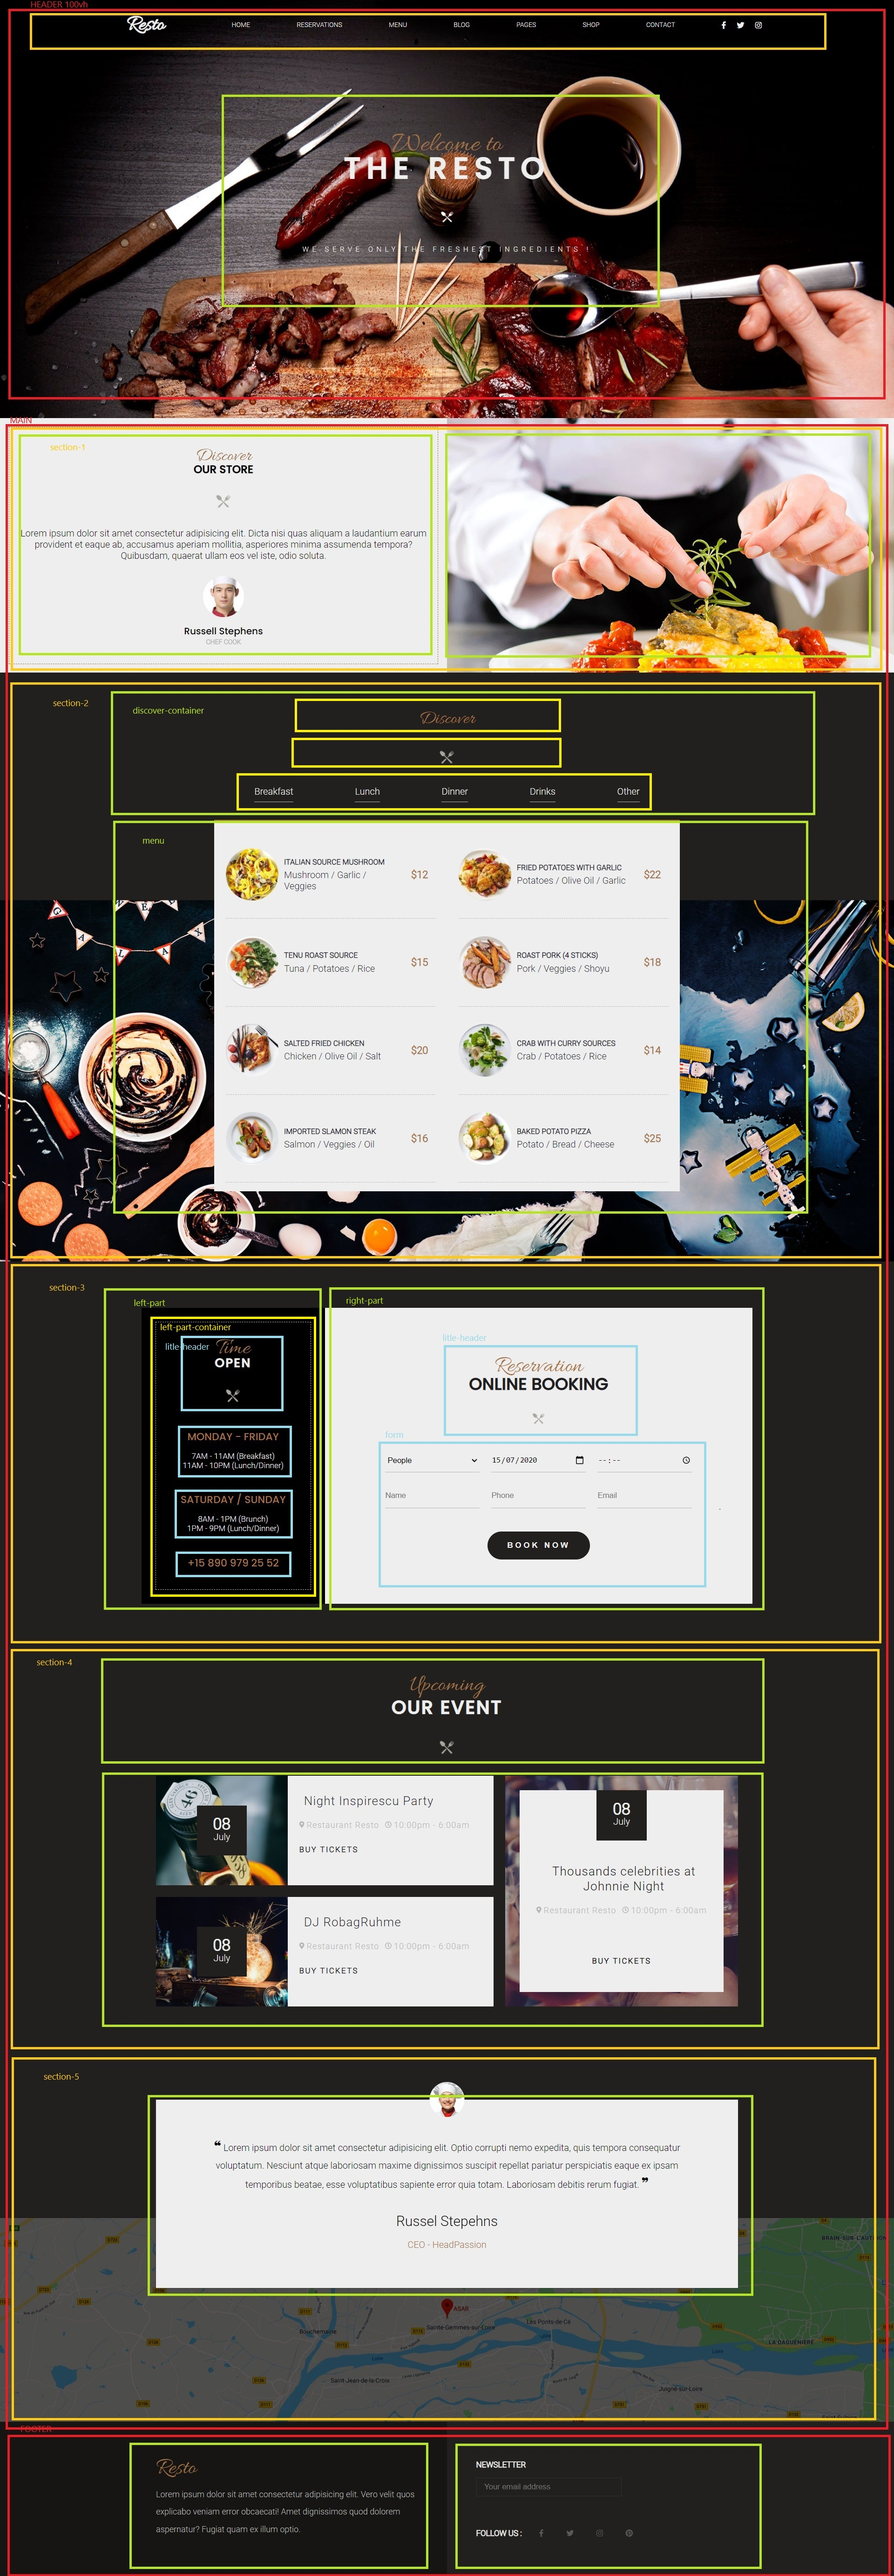
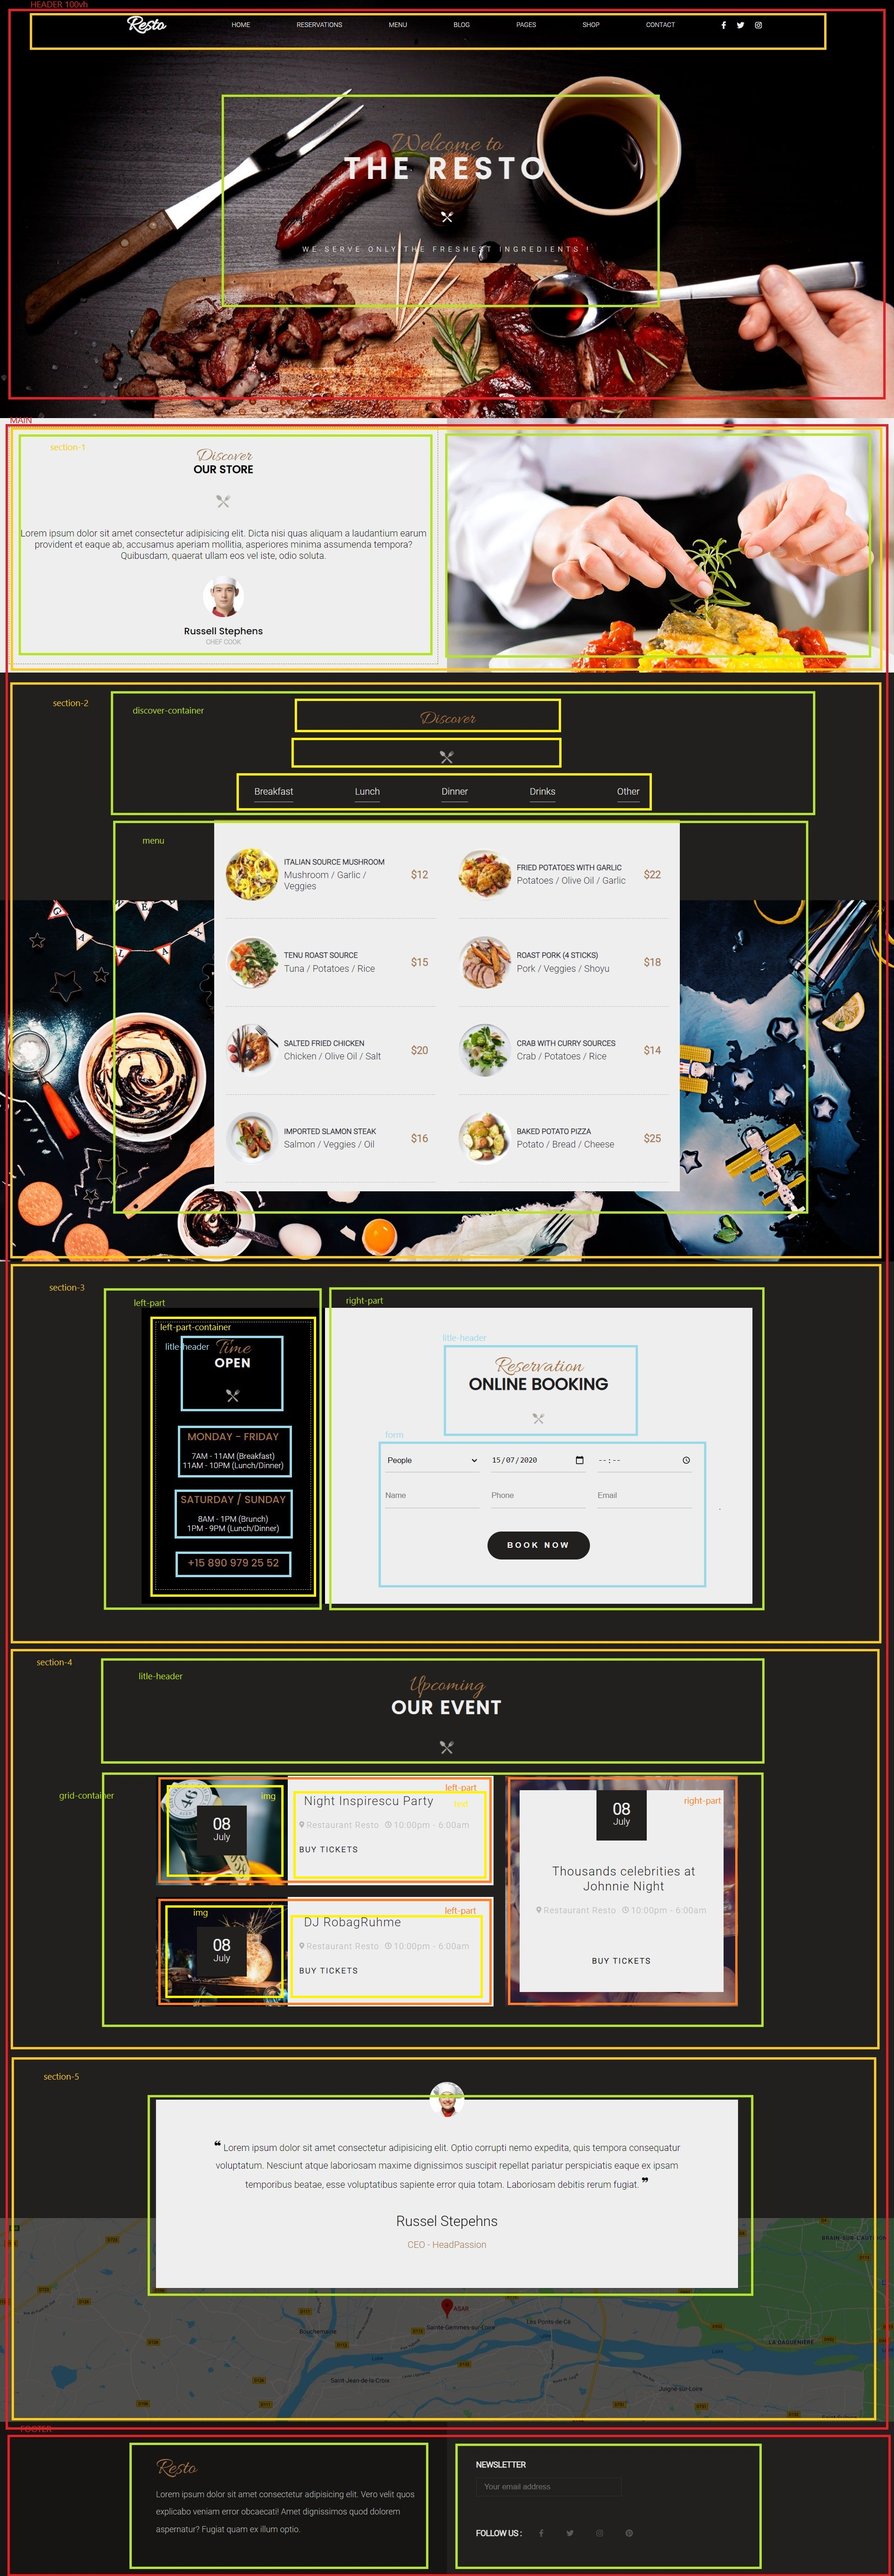
html terminé

Changed region(s): [[0.1562, 0.6846, 0.5938, 0.778], [0.8125, 0.6846, 0.8438, 0.778]]

diff --git a/index.html b/index.html
@@ -205,19 +205,93 @@
                     <input type="text" placeholder="Name">
                     <input type="text" placeholder="Phone">
                     <input type="text" placeholder="Email">
-                    <input type="submit" value="book now">
+                    <input type="submit" id="btn" value="book now">
                 </form>
             </div>
         </div>
-        <div class="section-4"></div>
-        <div class="section-5"></div>
+        <div class="section-4">
+            <div class="litle-header">
+                <h2>Upcoming</h2>
+                <h3>our event</h3>
+                <img src="./assets/img/ic-plate-big.png" alt="couverts">
+            </div>
+            <div class="grid-container">
+                <div class="left part">
+                    <div class="img">
+                        <div class="date">
+                            <h3>08</h3>
+                            <p>July</p>
+                        </div>
+                    </div>
+                    <div class="text">
+                        <h4>night inspirescu party</h4>
+                        <p><i class="fa-solid fa-location-dot"></i>restaurant resto <i class="fa-regular fa-clock"></i>
+                            10:00pm - 6:00am</p>
+                        <button>buy tickets</button>
+                    </div>
+                </div>
+                <div class="left part">
+                    <div class="img">
+                        <div class="date">
+                            <h3>08</h3>
+                            <p>July</p>
+                        </div>
+                    </div>
+                    <div class="text">
+                        <h4>DJ RobagRuhme</h4>
+                        <p><i class="fa-solid fa-location-dot"></i>restaurant resto <i class="fa-regular fa-clock"></i>
+                            10:00pm - 6:00am</p>
+                        <button>buy tickets</button>
+                    </div>
+                </div>
+                <div class="right-part">
+                    <div class="date">
+                        <h3>08</h3>
+                        <p>July</p>
+                    </div>
+                    <div class="text">
+                        <h4>Thousands celebrities at johnnie night</h4>
+                        <p><i class="fa-solid fa-location-dot"></i>restaurant resto <i class="fa-regular fa-clock"></i>
+                            10:00pm - 6:00am</p>
+                        <button>buy tickets</button>
+                    </div>
+                </div>
+            </div>
+        </div>
+        <div class="section-5">
+            <div class="text">
+                <img src="./assets/img/avatar-02.webp" alt="photo Cuisto">
+                <p>"Lorem ipsum dolor sit amet consectetur adipisicing elit. Sequi deserunt voluptatem natus ipsam
+                    repudiandae quia repellat suscipit dolorem quis consequatur ipsa, omnis, aut earum a dolorum
+                    modi, illum hic totam!"</p>
+                <h4>russels stephens</h4>
+                <h5>CEO - HeadPassion</h5>
+            </div>
+        </div>
     </main>
 
     <footer>
-
+        <div class="left-part">
+            <h3>resto</h3>
+            <p>Lorem ipsum dolor sit amet consectetur adipisicing elit. Quidem soluta exercitationem nihil iure animi
+                adipisci deleniti, eius quam. Sapiente, deleniti.</p>
+        </div>
+        <div class="right-part">
+            <div class="contact">
+                <h5>newsletter</h5>
+                <input type="textarea" placeholder="Your email address">
+            </div>
+            <div class="network">
+                <h5>follow us:</h5>
+                <ul>
+                    <li><i class="fa-brands fa-facebook-f"></i></li>
+                    <li><i class="fa-brands fa-twitter"></i></li>
+                    <li><i class="fa-brands fa-instagram"></i></li>
+                    <li><i class="fa-brands fa-pinterest"></i></li>
+                </ul>
+            </div>
+        </div>
     </footer>
-
-
 </body>
 
 </html>
